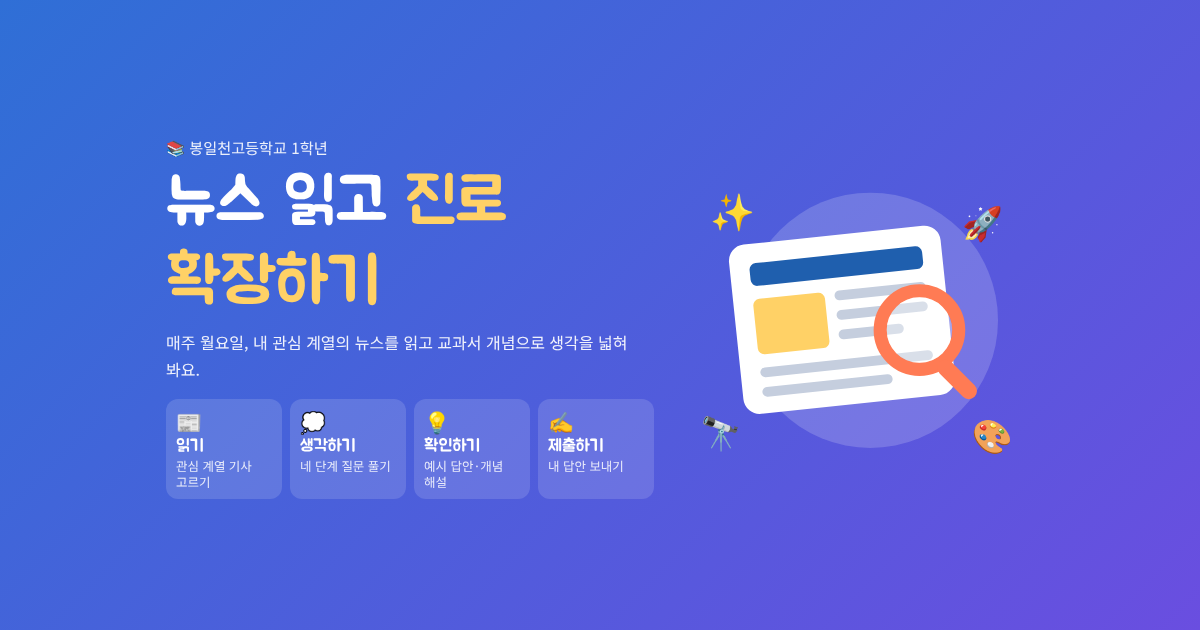
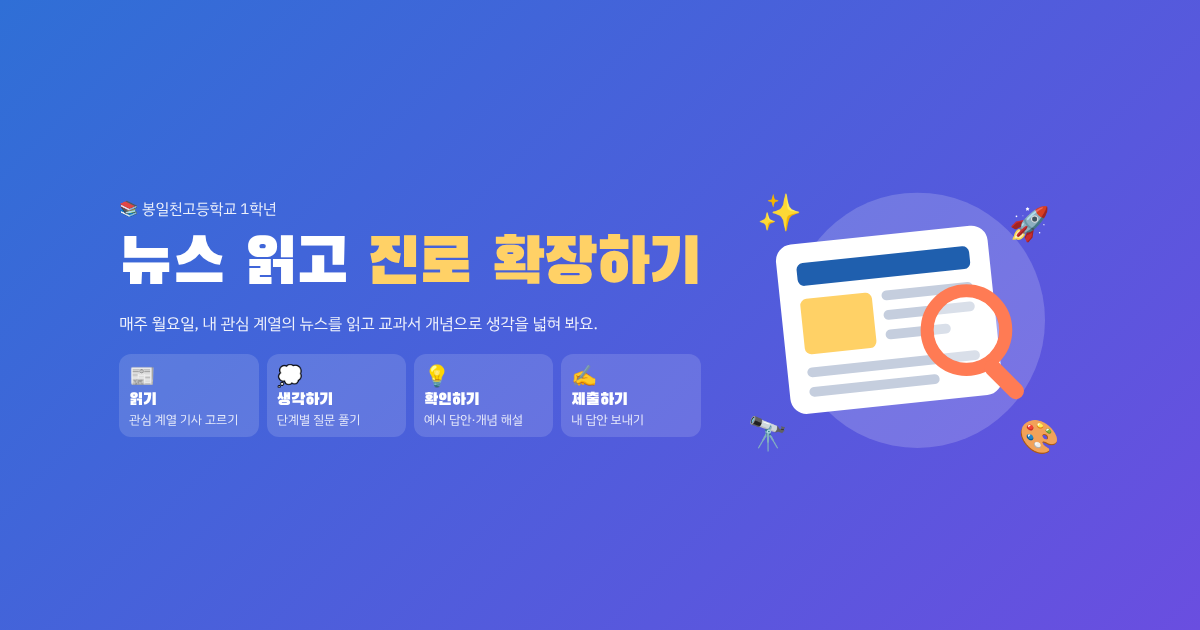
글꼴을 IBM Plex Sans KR(본문)·Black Han Sans(제목)로 변경, 공유 이미지 갱신
Claude-Session: https://claude.ai/code/session_01JsArH3e3yuLsMpAtwT68Bp

Changed region(s): [[0.0925, 0.2714, 0.8942, 0.8143], [0.1233, 0.2111, 0.2775, 0.2413]]

diff --git a/index.html b/index.html
@@ -18,7 +18,7 @@
   <link rel="alternate" type="application/rss+xml" title="봉일천고 1학년 뉴스 읽고 진로 확장하기" href="feed.xml">
   <link rel="preconnect" href="https://fonts.googleapis.com">
   <link rel="preconnect" href="https://fonts.gstatic.com" crossorigin>
-  <link href="https://fonts.googleapis.com/css2?family=Jua&family=Noto+Sans+KR:wght@400;500;700&display=swap" rel="stylesheet">
+  <link href="https://fonts.googleapis.com/css2?family=Black+Han+Sans&family=IBM+Plex+Sans+KR:wght@400;500;700&display=swap" rel="stylesheet">
   <link rel="stylesheet" href="assets/style.css">
 </head>
 <body>
@@ -30,7 +30,7 @@
         <p class="tagline">매주 월요일, 내 관심 계열의 뉴스를 읽고 교과서 개념으로 생각을 넓혀 봐요.</p>
         <ol class="steps" aria-label="이용 방법">
           <li><span class="step-icon">📰</span><b>읽기</b><small>관심 계열 기사 고르기</small></li>
-          <li><span class="step-icon">💭</span><b>생각하기</b><small>네 단계 질문 풀기</small></li>
+          <li><span class="step-icon">💭</span><b>생각하기</b><small>단계별 질문 풀기</small></li>
           <li><span class="step-icon">💡</span><b>확인하기</b><small>예시 답안·개념 해설</small></li>
           <li><span class="step-icon">✍</span><b>제출하기</b><small>내 답안 보내기</small></li>
         </ol>

diff --git a/assets/style.css b/assets/style.css
@@ -1,6 +1,6 @@
 :root {
-  --font-body: "Noto Sans KR", "Apple SD Gothic Neo", "Malgun Gothic", system-ui, sans-serif;
-  --font-head: "Jua", "Noto Sans KR", sans-serif;
+  --font-body: "IBM Plex Sans KR", "Apple SD Gothic Neo", "Malgun Gothic", system-ui, sans-serif;
+  --font-head: "Black Han Sans", "IBM Plex Sans KR", sans-serif;
   --bg: #f6f8fc;
   --surface: #ffffff;
   --text: #1d2433;
